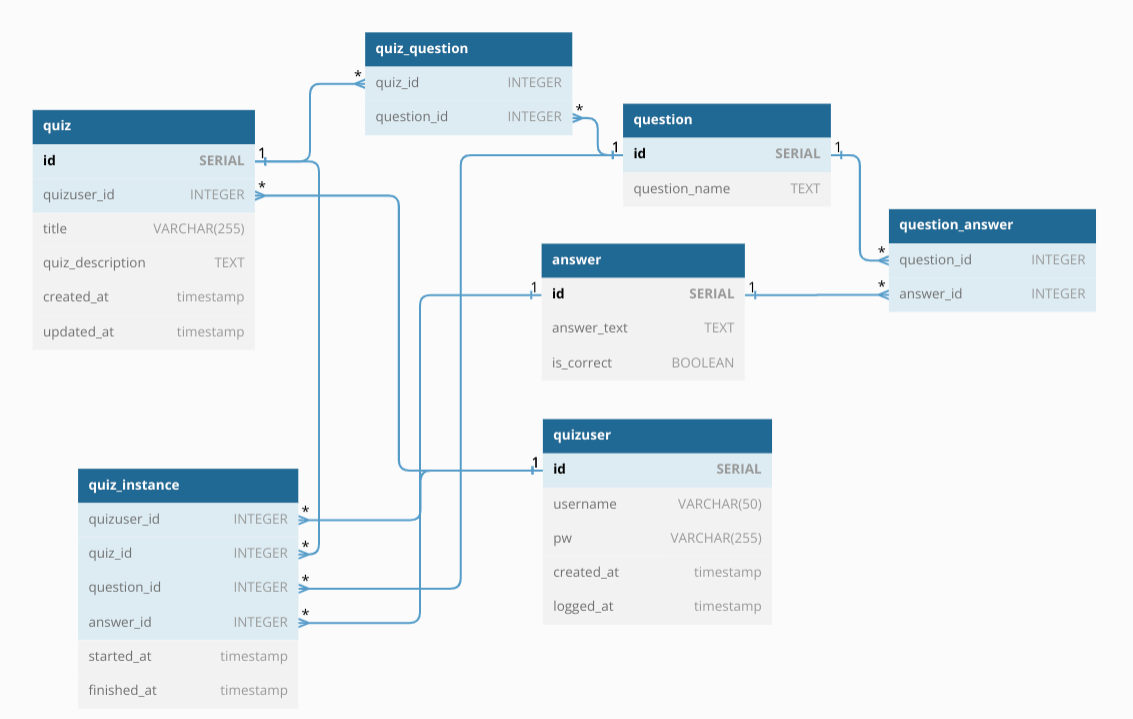
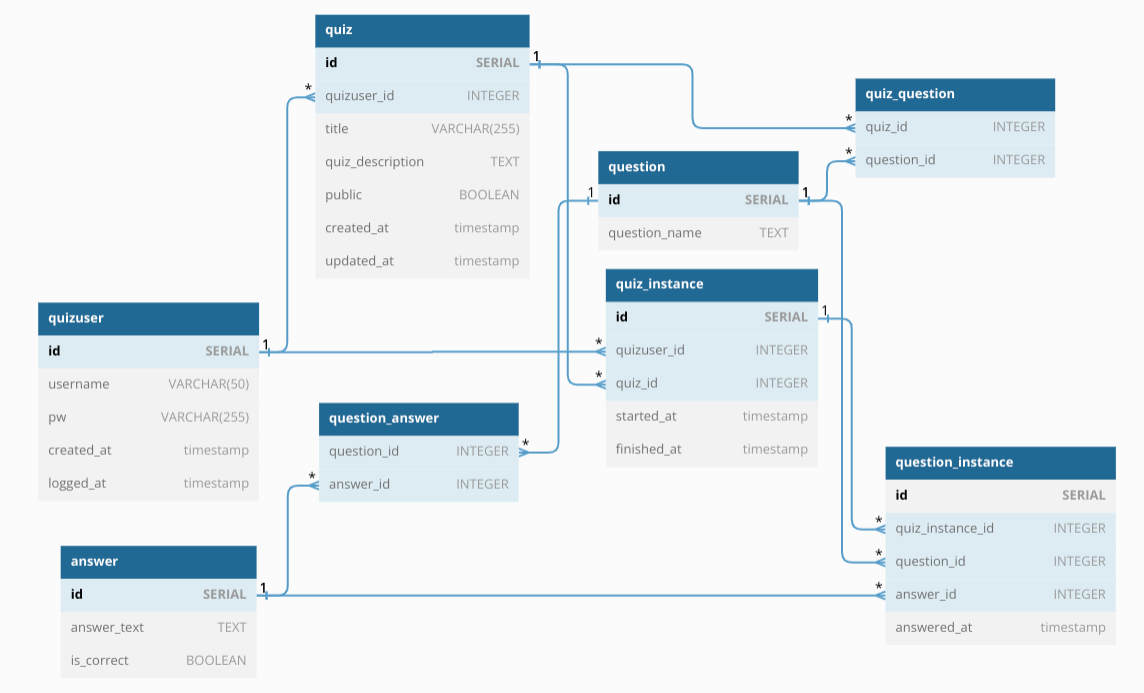
add support to save quiz instances

diff --git a/src/templates/quiz_stats.html b/src/templates/quiz_stats.html
@@ -1,8 +1,17 @@
 {% extends "layout.html" %}
 {% block title %}Quiz stats{% endblock %}
 {% block content %}
-  <h2>{{ quiz_title }}</h2>
-  <h4>{{ quiz_created }}</h4>
-  <p>{{ quiz_description }}</p>
+  <h2>{{ stats.quiz_title }}</h2>
+  <p>{{ stats.quiz_description }}</p>
+  <p>Started {{ stats.started }}</p>
+  <p>Completed {{ stats.completed }}</p>
   <p>Results</p>
+  {% for question in stats.questions %}
+    <div>
+      <span>Question: {{ question.question_name }}</span>
+      <span>Answer: {{ question.answer }}</span>
+      <span>Is correct: {{ question.is_correct }}</span>
+      <span>Answered: {{ question.answer_time }}</span>
+    </div>
+  {% endfor %}
 {% endblock %}

diff --git a/src/templates/question.html b/src/templates/question.html
@@ -3,9 +3,14 @@
 {% block content %}
   <h1>{{ question.question_name }}</h1>
   <p>Answer options</p>
-  <form action="/attempt/{{ quiz_id }}/question/{{ question.id }}" method="post">
+  <form action="/attempt/{{ quiz_instance_id }}/question/{{ question.id }}" method="post">
     {% for answer in answer_opts %}
-      <div>{{ answer.answer_text }}</div>
+    <div>
+      <label>
+        <input type="radio" name="answeropt" value="{{answer.id}}">
+        {{ answer.answer_text }}
+      </label>
+    </div>
     {% endfor %}
     <input type="submit" value="Next">
   </form>

diff --git a/src/templates/attempt.html b/src/templates/attempt.html
@@ -3,13 +3,7 @@
 {% block content %}
   <h1>{{ quiz.title }}</h1>
   <p>{{ quiz.quiz_description }}</p>
-  {% if question_id == -1 %}
-    <a href="/attempt/{{ quiz.id }}/stats">
-      <button>Start quiz</button>
-    </a>
-  {% else %}
-    <a href="/attempt/{{ quiz.id }}/question/{{question_id}}">
-      <button>Start quiz</button>
-    </a>
-  {% endif %}
+  <form action="/attempt/{{ quiz.id }}/instance" method="post">
+    <input type="submit" value="Start quiz">
+  </form>
 {% endblock %}

diff --git a/src/routes/attempt.py b/src/routes/attempt.py
@@ -1,4 +1,4 @@
-from flask import render_template, redirect, url_for
+from flask import render_template, redirect, url_for, request, session
 from src.app import app
 from src.db import db
 from src.routes.decorators import login_required
@@ -11,50 +11,116 @@ from src.repositories.answers import AnswerRepository
 @login_required
 def attempt(quiz_id: int):
     quiz = QuizRepository(db).get_quiz_by_id(quiz_id)
-    questions = QuestionRepository(db).get_questions_linked_to_quiz(quiz_id)
-    question_id = -1
-    if len(questions) > 0:
-        question_id = questions[0].id
     if quiz is None:
+        # TODO: show some error?
         return redirect(url_for("landingpage"))
-    return render_template("attempt.html", quiz=quiz, question_id=question_id)
+    # TODO: quiz with no questions cannot be attempted
+    return render_template("attempt.html", quiz=quiz)
 
 
-@app.route("/attempt/<int:quiz_id>/question/<int:question_id>", methods=["GET"])
+@app.route("/attempt/<int:quiz_id>/instance", methods=["POST"])
 @login_required
-def attempt_question(quiz_id: int, question_id: int):
-    questions = QuestionRepository(db).get_questions_linked_to_quiz(quiz_id)
-    question = [q for q in questions if q.id == question_id]
-    if len(question) == 0:
-        return redirect(url_for("attempt", quiz_id=quiz_id))
-    question = question[0]
-    answer_opts = AnswerRepository(
-        db).get_answers_linked_to_question(question.id)
+def start_instance(quiz_id: int):
+    quiz = QuizRepository(db).get_quiz_by_id(quiz_id)
+    if quiz is None:
+        # TODO: show some error?
+        return redirect(url_for("landingpage"))
+    user_id = session["user_id"]
+    active_instances = QuizRepository(
+        db).get_quiz_instances(user_id, quiz_id)
+    if len(active_instances) > 1:
+        # TODO: show some error?
+        return redirect(url_for("landingpage"))
+    elif len(active_instances) == 1:
+        quiz_instance_id = active_instances[0].id
+    else:
+        quiz_instance_id = QuizRepository(
+            db).create_new_quiz_instance(user_id, quiz_id)
+    answered_questions = QuestionRepository(
+        db).get_question_instances_by_quiz_instance(quiz_instance_id)
+    all_questions = QuestionRepository(
+        db).get_questions_linked_to_quiz(quiz_id)
+    question = None
+    for q in all_questions:
+        print("Finding first unanswered question")
+        if len([aq for aq in answered_questions if aq.question_id == q.id]) == 0:
+            print("Selected", q.id)
+            question = q
+            break
+    if question is None and len(all_questions > 0):
+        # Should not be able to start quiz in this scenario (no unanswered questions left)
+        # but for now just show the first one again.
+        question = all_questions[0]
+    if len(all_questions) == 0:
+        # TODO: show some error?
+        return redirect(url_for("landingpage"))
+    return redirect(url_for("attempt_question", quiz_instance_id=quiz_instance_id, question_id=question.id))
+
+
+@app.route("/attempt/<int:quiz_instance_id>/question/<int:question_id>", methods=["GET"])
+@login_required
+def attempt_question(quiz_instance_id: int, question_id: int):
+    # TODO: common logic for checking that user_id from session has
+    # an active quiz instance with the parameter quiz_instance_id
+    # and that the question belongs to the quiz.
     return render_template(
         "question.html",
-        quiz_id=quiz_id,
-        question=question,
-        answer_opts=answer_opts
+        quiz_instance_id=quiz_instance_id,
+        question=QuestionRepository(db).get_question_by_id(question_id),
+        answer_opts=AnswerRepository(
+            db).get_answers_linked_to_question(question_id)
     )
 
 
-@app.route("/attempt/<int:quiz_id>/question/<int:question_id>", methods=["POST"])
+@app.route("/attempt/<int:quiz_instance_id>/question/<int:question_id>", methods=["POST"])
 @login_required
-def save_question(quiz_id: int, question_id: int):
-    # TODO: save answer from form data
-    questions = QuestionRepository(db).get_questions_linked_to_quiz(quiz_id)
-    next_question_id = -1
-    for i in range(len(questions)):
-        if questions[i].id == question_id:
-            if i < len(questions) - 1:
-                next_question_id = questions[i+1].id
-    if next_question_id < 0:
-        return redirect(url_for("quiz_stats", quiz_id=quiz_id))
-    return redirect(url_for('attempt_question', quiz_id=quiz_id, question_id=next_question_id))
+def save_question(quiz_instance_id: int, question_id: int):
+    # TODO: common logic for checking that user_id from session has
+    # an active quiz instance with the parameter quiz_instance_id
+    # and that the question belongs to the quiz.
+    if "answeropt" in request.form:
+        answer_id = request.form["answeropt"]
+    else:
+        # TODO: must be there to go forward to next question
+        pass
+    QuestionRepository(db).create_new_question_instance(
+        quiz_instance_id, question_id, answer_id)
+    answered_questions = QuestionRepository(
+        db).get_question_instances_by_quiz_instance(quiz_instance_id)
+    all_questions = QuestionRepository(
+        db).get_questions_linked_to_quiz_by_quiz_instance_id(quiz_instance_id)
+    question = None
+    for q in all_questions:
+        if len([aq for aq in answered_questions if aq.question_id == q.id]) == 0:
+            question = q
+            break
+    if question is None and len(all_questions) > 0:
+        QuizRepository(db).complete_quiz_instance(quiz_instance_id)
+        return redirect(url_for("quiz_stats", quiz_instance_id=quiz_instance_id))
+    if question is None or len(all_questions) == 0:  # If attempting to post to quiz with no questions
+        # TODO: show some error?
+        return redirect(url_for("landingpage"))
+    return redirect(url_for("attempt_question", quiz_instance_id=quiz_instance_id, question_id=question.id))
 
 
-@app.route("/attempt/<int:quiz_id>/stats", methods=["GET"])
+@app.route("/attempt/<int:quiz_instance_id>/stats", methods=["GET"])
 @login_required
-def quiz_stats(quiz_id: int):
-    quiz = QuizRepository(db).get_quiz_by_id(quiz_id)
-    return render_template("quiz_stats.html", quiz=quiz)
+def quiz_stats(quiz_instance_id: int):
+    user_id = session["user_id"]
+    quiz_instance_stats = QuizRepository(
+        db).get_quiz_instance_stats(quiz_instance_id, user_id)
+    stats = {}
+    if len(quiz_instance_stats) > 0:
+        stats["quiz_title"] = quiz_instance_stats[0][0]
+        stats["quiz_description"] = quiz_instance_stats[0][1]
+        stats["started"] = quiz_instance_stats[0][3]
+        stats["completed"] = quiz_instance_stats[0][4]
+        stats["questions"] = []
+        for row in quiz_instance_stats:
+            stats["questions"].append({
+                "question_name": row[5],
+                "answer": row[6],
+                "is_correct": row[7],
+                "answer_time": row[8]
+            })
+    return render_template("quiz_stats.html", stats=stats)

diff --git a/src/repositories/quizzes.py b/src/repositories/quizzes.py
@@ -30,3 +30,75 @@ class QuizRepository:
         self.db.session.commit()
         quiz_id, = cursor.fetchone()
         return quiz_id
+
+    def get_quiz_instances(self, user_id: int, quiz_id: int, only_active=True):
+        query_string = """
+            SELECT * FROM quiz_instance
+            WHERE quizuser_id = :quizuser_id
+            AND quiz_id = :quiz_id;
+        """
+        if only_active:
+            query_string = """
+                SELECT * FROM quiz_instance
+                WHERE quizuser_id = :quizuser_id
+                AND quiz_id = :quiz_id
+                AND finished_at IS NULL;
+            """
+        cursor = self.db.session.execute(_text(query_string), {
+            "quizuser_id": user_id, "quiz_id": quiz_id})
+        return cursor.fetchall()
+
+    def get_quiz_instance_by_id(self, quiz_instance_id: int):
+        query_string = f"SELECT * FROM quiz_instance WHERE id = :id"
+        cursor = self.db.session.execute(
+            _text(query_string), {"id": quiz_instance_id})
+        instances = cursor.fetchall()
+        if len(instances) == 0:
+            return None
+        return instances[0]
+
+    def create_new_quiz_instance(self, user_id: int, quiz_id: int):
+        query_string = """
+            INSERT INTO quiz_instance (quizuser_id, quiz_id)
+            VALUES (:quizuser_id, :quiz_id)
+            RETURNING id;
+        """
+        cursor = self.db.session.execute(_text(query_string), {
+            "quizuser_id": user_id, "quiz_id": quiz_id})
+        self.db.session.commit()
+        quiz_instance_id, = cursor.fetchone()
+        return quiz_instance_id
+
+    def complete_quiz_instance(self, quiz_instance_id: int):
+        query_string = """
+            UPDATE quiz_instance
+            SET finished_at = NOW()
+            WHERE id = :id;
+        """
+        cursor = self.db.session.execute(_text(query_string), {
+            "id": quiz_instance_id})
+        self.db.session.commit()
+        return cursor.rowcount
+
+    def get_quiz_instance_stats(self, quiz_instance_id: int, user_id: int):
+        query_string = """
+            SELECT
+                quiz.title,
+                quiz.quiz_description,
+                quiz.public,
+                qi.started_at,
+                qi.finished_at,
+                q.question_name,
+                a.answer_text,
+                a.is_correct,
+                qui.answered_at
+            FROM quiz_instance qi
+            LEFT JOIN quiz ON quiz.id = qi.quiz_id
+            LEFT JOIN question_instance qui ON qi.id = qui.quiz_instance_id
+            LEFT JOIN question q ON q.id = qui.question_id
+            LEFT JOIN answer a ON a.id = qui.answer_id
+            WHERE qi.quizuser_id = :quizuser_id AND qi.id = :id;
+        """
+        cursor = self.db.session.execute(_text(query_string), {
+            "quizuser_id": user_id, "id": quiz_instance_id})
+        return cursor.fetchall()

diff --git a/src/repositories/questions.py b/src/repositories/questions.py
@@ -6,6 +6,22 @@ class QuestionRepository:
     def __init__(self, db: 'SQLAlchemy'):
         self.db = db
 
+    def get_question_by_id(self, question_id: int):
+        """Parameters: (int) question_id
+
+        Returns:
+            tuple: question with the following fields
+            id: (int) question id
+            question_name: (str) question name
+        """
+        query_string = "SELECT * FROM question WHERE id = :id;"
+        cursor = self.db.session.execute(
+            _text(query_string), {"id": question_id})
+        questions = cursor.fetchall()
+        if len(questions) == 0:
+            return None
+        return questions[0]
+
     def create_new_question(self, name: str) -> int:
         # TODO: refactor to add the link to connection table at the same time?
         query_string = """
@@ -29,3 +45,35 @@ class QuestionRepository:
         cursor = self.db.session.execute(
             _text(query_string), {"quiz_id": quiz_id})
         return cursor.fetchall()
+
+    def get_questions_linked_to_quiz_by_quiz_instance_id(self, quiz_insance_id: int) -> list:
+        query_string = """
+        SELECT q.* FROM question q
+        JOIN quiz_question qq ON qq.question_id = q.id
+        WHERE qq.quiz_id = (SELECT quiz_id FROM quiz_instance WHERE quiz_instance.id = :id)
+        ORDER BY q.id ASC;
+        """
+        cursor = self.db.session.execute(
+            _text(query_string), {"id": quiz_insance_id})
+        return cursor.fetchall()
+
+    def get_question_instances_by_quiz_instance(self, quiz_instance_id: int):
+        query_string = """
+        SELECT * FROM question_instance
+        WHERE quiz_instance_id = :quiz_instance_id;
+        """
+        cursor = self.db.session.execute(
+            _text(query_string), {"quiz_instance_id": quiz_instance_id})
+        return cursor.fetchall()
+
+    def create_new_question_instance(self, quiz_instance_id: int, question_id: int, answer_id: int):
+        query_string = """
+        INSERT INTO question_instance (quiz_instance_id, question_id, answer_id)
+        VALUES (:quiz_instance_id, :question_id, :answer_id)
+        RETURNING id;
+        """
+        cursor = self.db.session.execute(
+            _text(query_string), {"quiz_instance_id": quiz_instance_id, "question_id": question_id, "answer_id": answer_id})
+        self.db.session.commit()
+        question_instance_id, = cursor.fetchone()
+        return question_instance_id

diff --git a/src/routes/decorators.py b/src/routes/decorators.py
@@ -1,11 +1,16 @@
 from functools import wraps
 from flask import request, redirect, url_for, session
+from src.db import db
+from src.repositories.users import UserRepository
 
 
-def login_required(f):
-    @wraps(f)
+def login_required(func):
+    @wraps(func)
     def decorated_function(*args, **kwargs):
         if "username" not in session:
             return redirect(url_for('login', next=request.url))
-        return f(*args, **kwargs)
+        user = UserRepository(db).get_user_by_username(session["username"])
+        if user is None:
+            return redirect(url_for('login', next=request.url))
+        return func(*args, **kwargs)
     return decorated_function

diff --git a/tasks.py b/tasks.py
@@ -8,5 +8,10 @@ def test(ctx, include=""):
 
 
 @task
+def dev(ctx):
+    ctx.run("LOG_LEVEL=debug flask run --debug")
+
+
+@task
 def start(ctx):
-    ctx.run("LOG_LEVEL=debug flask run")
+    ctx.run("flask run")

diff --git a/README.md b/README.md
@@ -11,9 +11,7 @@ The application allows users to create, share and complete quizzes on various to
 
 ## About the application (Draft)
 
-Quizzes can consist of one to many questions each with three to five(?) answer options, only one of which is correct. Upon answering a question, user should see the correct answer and possibly extra info on the selected answer if it was incorrect. User can only progress linearly through a quiz, no backsies. Quiz attempts are timed and some score on a quiz is calculated based on how many correct answers there were and how quick they were answered.
-
-Quizzes can be created, edited, deleted and attemped by any registered user. User cannot edit or delete another users quizzes. User should not see other users' scores on quizzes.
+Quizzes can consist of one to many questions each with two to five answer options, only one of which is correct. User can select the answer and change it while still viewing that question. When navigating to the next question the answer is locked. User can only progress linearly through a quiz, already saved answers cannot be changed. One attempt of a quiz is a single instance, same quizzes can be filled many times each saving the results as a new instance of that quiz for the user. Quiz attempts are timed and some score on a quiz is calculated based on how many correct answers there were and how quick they were answered.
 
 ## Functionality
 
@@ -28,7 +26,7 @@ List is likely to grow once development goes further but at least the non-option
 |No|User|see list of quizzes|DONE|quiz_creationORquestion_creation|
 |No|User|create a new quiz|DONE|quiz_creationORquestion_creation|
 |No|User|complete a quiz||
-|No|User|edit or delete own quiz||
+|No|User|edit or delete own quiz while it is not yet published||
 |No|User|see data about quizzes that they've completed||
 |Yes|User|can give score to a quiz||
 |Yes|User|can comment on a quiz||
